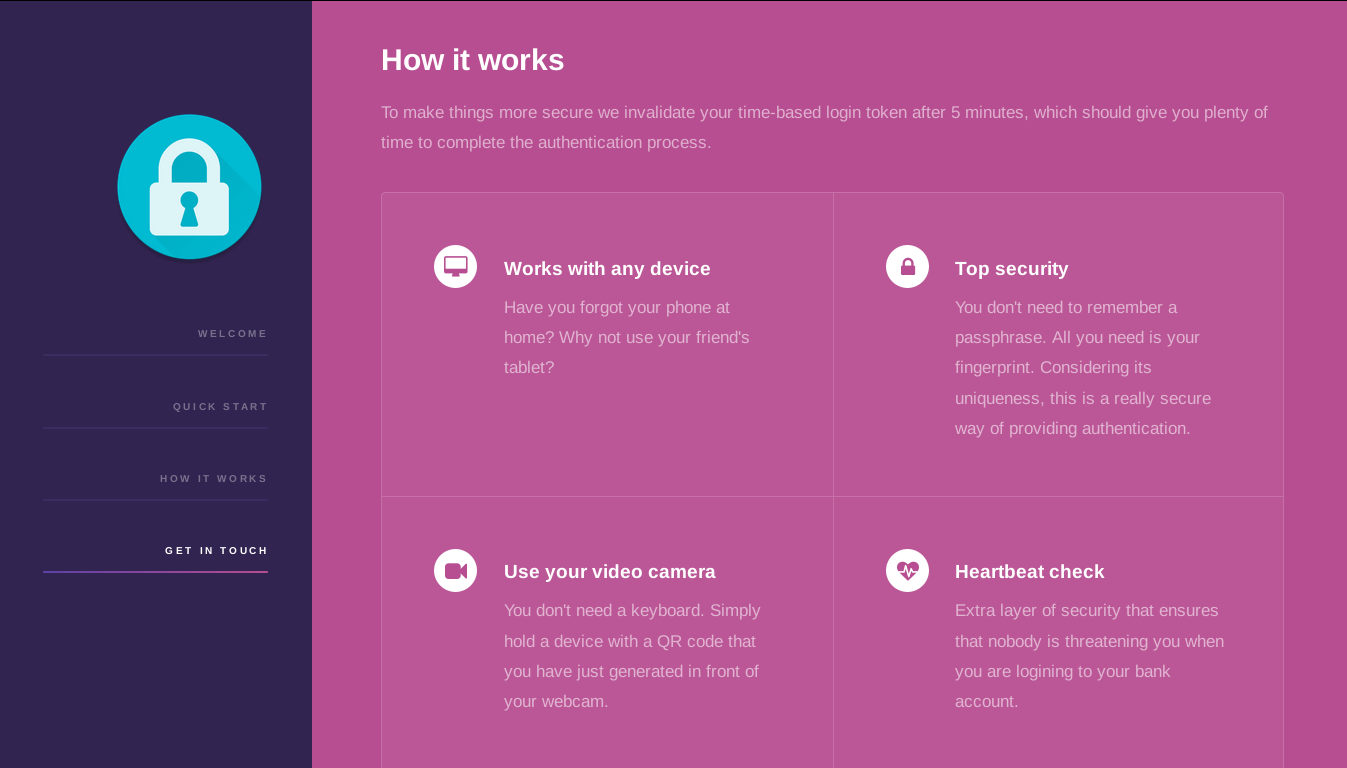
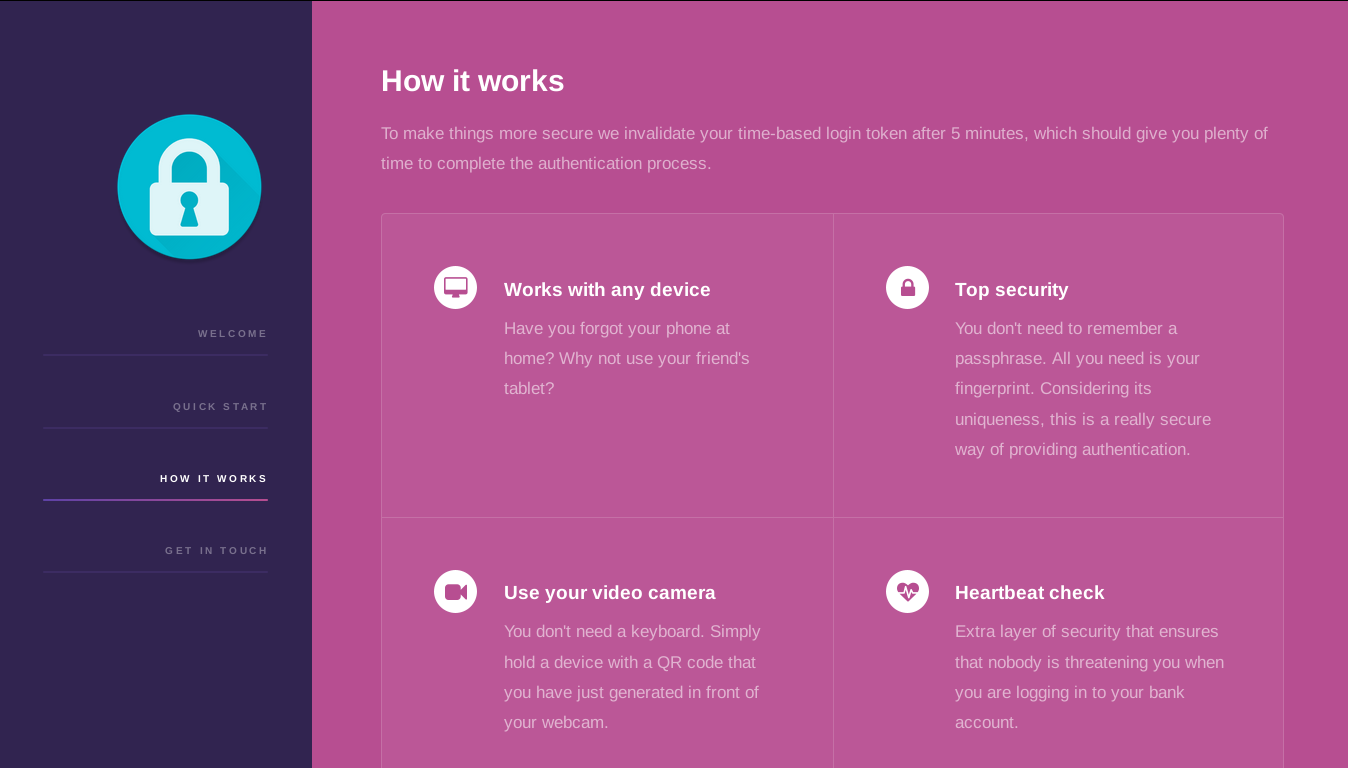
Fix typos

diff --git a/Server/templates/index.html b/Server/templates/index.html
@@ -86,7 +86,7 @@
 								<section>
 									<span class="icon major fa-heartbeat"></span>
 									<h3>Heartbeat check</h3>
-									<p>Extra layer of security that ensures that nobody is threatening you when you are logining to your bank account. </p>
+									<p>Extra layer of security that ensures that nobody is threatening you when you are logging in to your bank account. </p>
 								</section>
 								<section>
 									<span class="icon major fa-code"></span>

diff --git a/README.md b/README.md
@@ -1,6 +1,8 @@
 # Hack-Cambridge
 Hack Cambridge hackathon
 
+Demo (likely dead soon - check screenshots): http://hackcambridge-3368.appspot.com/
+
 TODO 
 
 **Description:**  TODO
